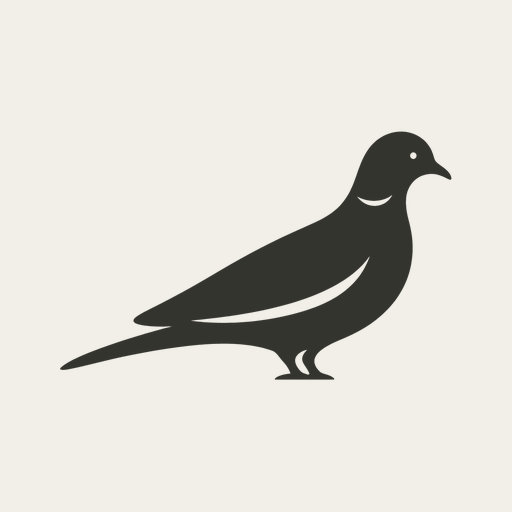
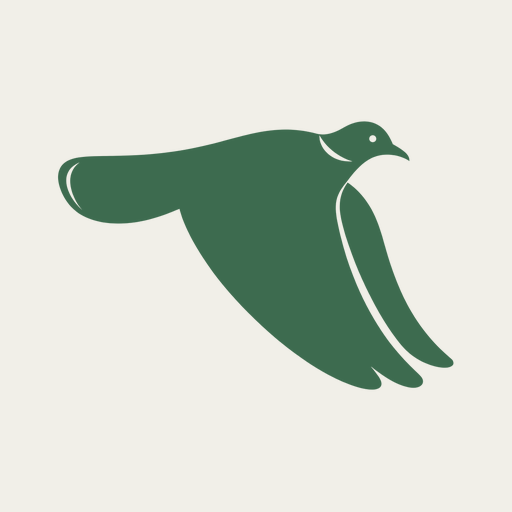
標誌換成飛翔的斑鳩，用千歲綠（夜間為青磁）
Claude-Session: https://claude.ai/code/session_019SwunGJvkkbXk4KEqbxpBr

Changed region(s): [[0.0938, 0.2188, 0.9062, 0.7812]]

diff --git a/assets/site.css b/assets/site.css
@@ -95,7 +95,7 @@ h1, h2, h3 { text-wrap: balance; }
 header.top { border-bottom: 1px solid var(--rule); background: var(--paper); position: sticky; top: 0; z-index: 10; }
 header.top .wrap { display: flex; justify-content: space-between; align-items: center; gap: 16px; padding-top: 14px; padding-bottom: 14px; flex-wrap: wrap; }
 .brand { display: flex; align-items: center; gap: 12px; font-family: var(--font-display); font-size: 23px; text-decoration: none; letter-spacing: 0.08em; }
-.brand-mark { width: 46px; height: 46px; flex: none; margin: -6px -4px -6px -6px; background: var(--ink); -webkit-mask: url("img/dove-mark.png") center / contain no-repeat; mask: url("img/dove-mark.png") center / contain no-repeat; }
+.brand-mark { width: 42px; height: 42px; flex: none; margin: -4px -2px -4px -4px; background: var(--c-talks); -webkit-mask: url("img/dove-mark.png") center / contain no-repeat; mask: url("img/dove-mark.png") center / contain no-repeat; }
 .brand-name { display: flex; flex-direction: column; font-family: "Aoyagi Reisho Name", var(--font-display); font-size: 30px; letter-spacing: 0.12em; line-height: 1; }
 .top-right { display: flex; align-items: center; gap: 8px; flex-wrap: wrap; }
 
